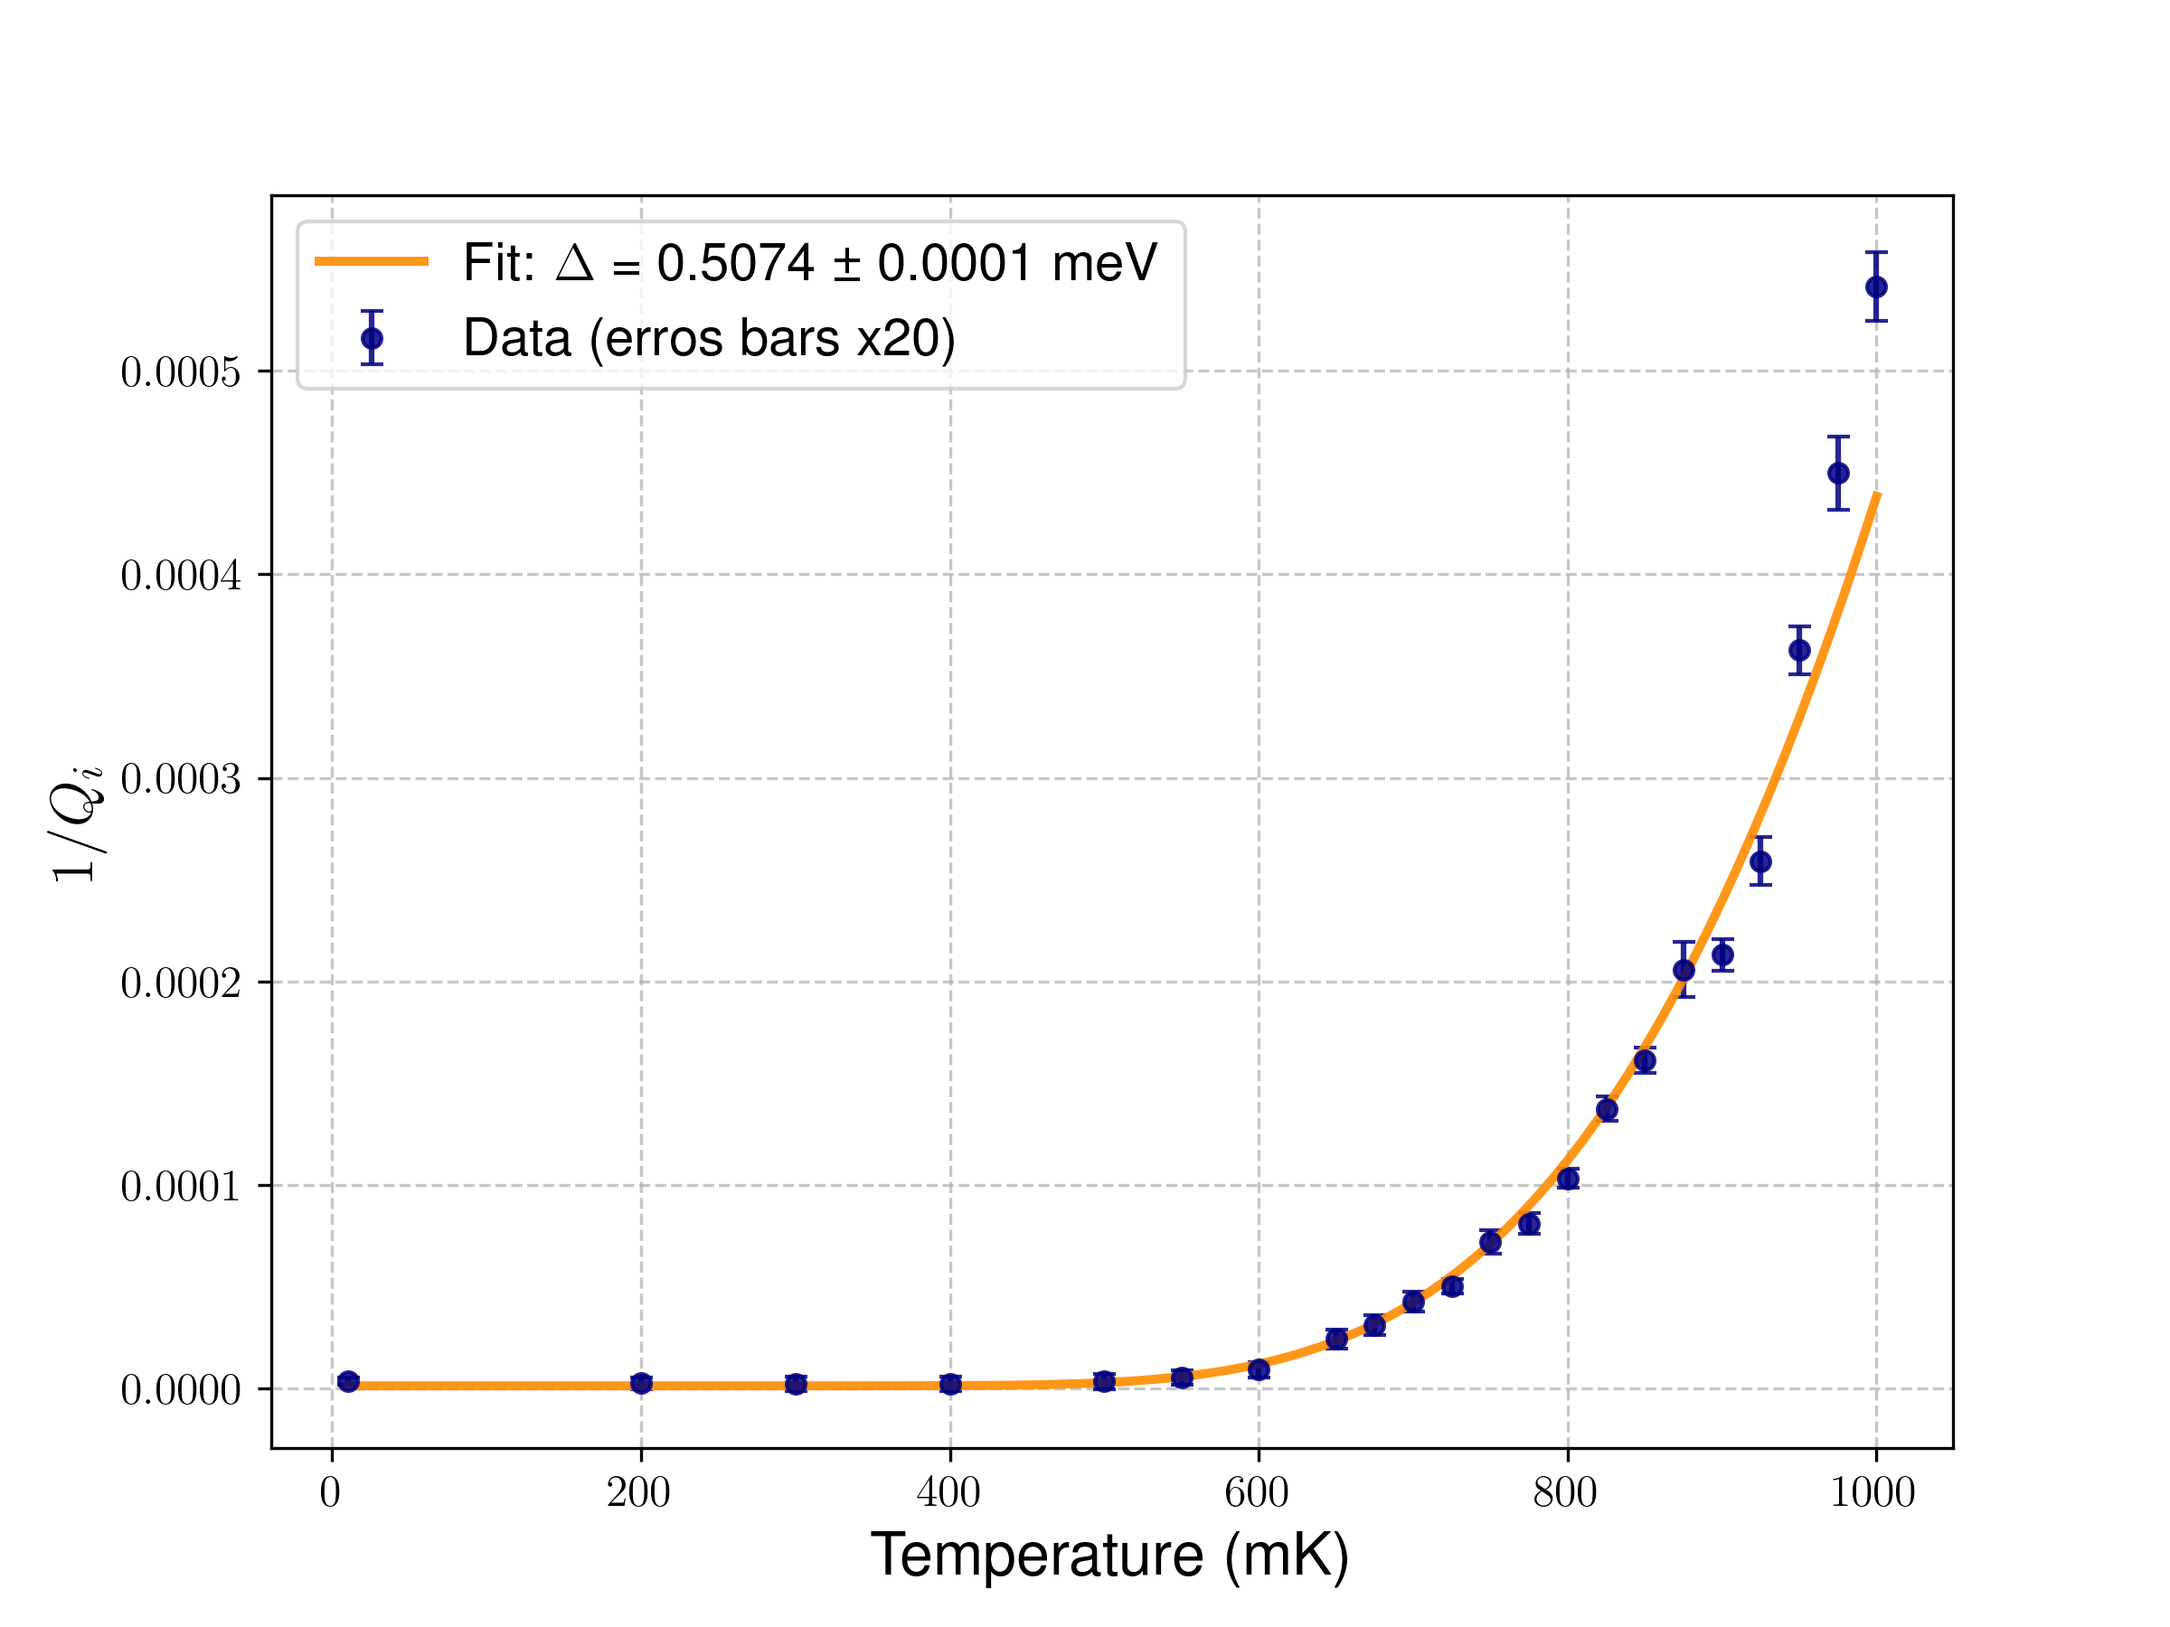
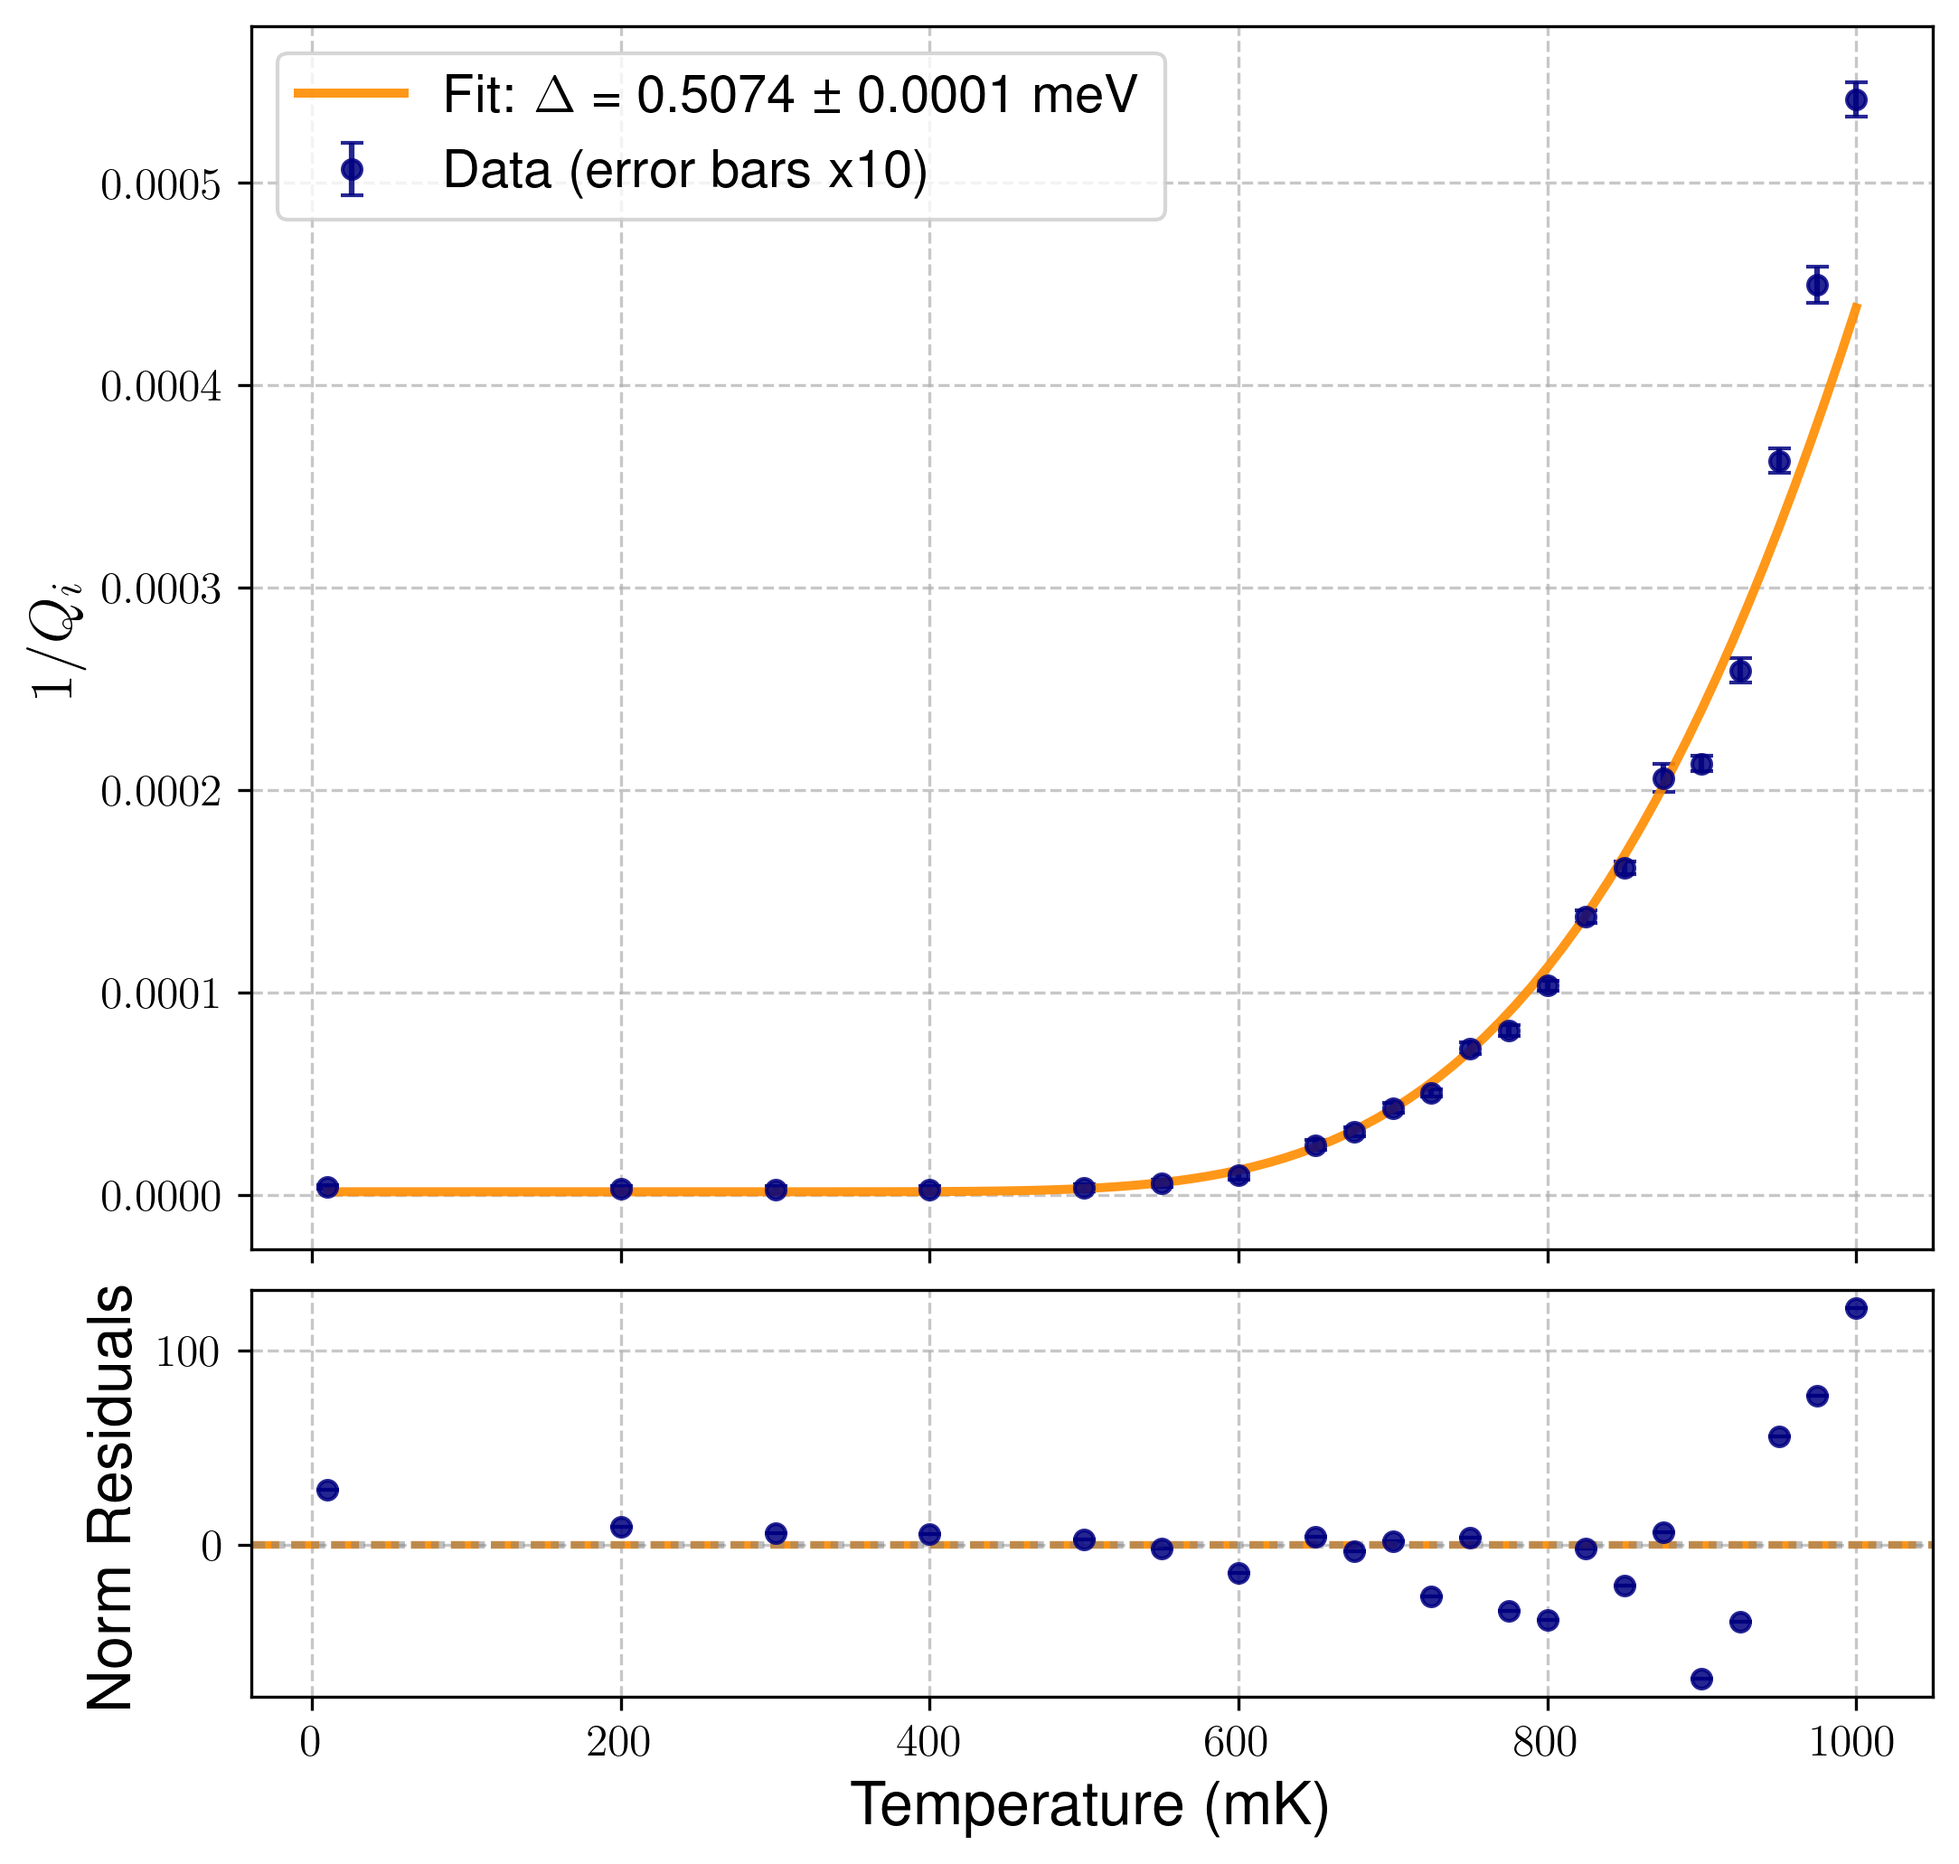
up

diff --git a/3DQubit/T_dep_results/SCgap_fit.py b/3DQubit/T_dep_results/SCgap_fit.py
@@ -2,9 +2,6 @@ import numpy as np
 import matplotlib.pyplot as plt
 from scipy.optimize import curve_fit
 from scipy.special import i0, k0
-from iminuit import Minuit
-from iminuit.cost import LeastSquares
-from iminuit.util import describe
 
 ########## IMPOSTAZIONI GRAFICHE (Aesthetic Improvements) #####
 plt.rcParams.update({
@@ -87,12 +84,18 @@ inv_Q0_fit = m.values["inv_Qi_0"]
 Delta_fit = m.values["Delta_eV"]
 Delta_err = m.errors["Delta_eV"]
 
-print(m)
+#print(m)
 
 T_c = Delta_fit/(1.764 * k_B)
 
 print(f"Critical temperature T_c = {T_c:.4f} K")
 print(f"Superconducting Gap = {Delta_fit*1e3:.4f}  meV")
+
+#Residuals calculation
+res = revQ - model(temp, inv_Q0_fit, Delta_fit)
+chi2 = np.sum((res / revQ_err) ** 2)
+dof = len(temp) - 2  # Numero di dati meno numero di parametri
+print(f"Chi-squared: {chi2:.2f}, Degrees of freedom: {dof}, Reduced Chi-squared: {chi2/dof:.2f}")
 
 # Prepara i dati per il plot del fit
 x_fit = np.linspace(np.min(temp), np.max(temp), 100)
@@ -102,25 +105,39 @@ lw_style = 2     # Spessore standard
 alpha_style = 0.7   # Leggera trasparenza per chiarezza visiva
 zorder_style = 1
 
-plt.figure(figsize=(8, 6))
-plt.errorbar(temp, revQ, yerr=revQ_err*20, fmt='o', label="Data (erros bars x20)", 
+# --- CREAZIONE DEI SUBPLOT ---
+# gridspec_kw imposta il rapporto di altezza tra il grafico principale (3) e i residui (1)
+fig, (ax1, ax2) = plt.subplots(2, 1, figsize=(8, 8), sharex=True, gridspec_kw={'height_ratios': [3, 1]})
+
+# --- GRAFICO PRINCIPALE (ax1) ---
+ax1.errorbar(temp, revQ, yerr=revQ_err*10, fmt='o', label="Data (error bars x10)", 
              color='navy', alpha=0.85, ms=5, capsize=3, elinewidth=1.5)
 
-# Inseriamo il valore del Delta nella label del Fit
-plt.plot(x_fit, f_fit, 
+ax1.plot(x_fit, f_fit, 
          label=f"Fit: $\Delta$ = {Delta_fit*1e3:.4f} ± {Delta_err*1e3:.4f} meV", 
          color='darkorange', alpha=0.9, lw=2.4)
 
-# In alternativa, puoi stamparlo come testo fisso nel grafico:
-# plt.text(0.05, 0.95, f"$\Delta$ = {Delta_fit*1e3:.3f} meV", 
-#          transform=plt.gca().transAxes, verticalalignment='top', 
-#          bbox=dict(boxstyle='round', facecolor='white', alpha=0.5))
+ax1.set_ylabel(r"$1/Q_i$")
+ax1.grid(True, linestyle='--', alpha=0.7)
+ax1.legend()
 
-plt.xlabel(r"Temperature (mK)")
-plt.ylabel(r"$1/Q_i$")
-#plt.title("Fit of Superconducting Gap")
-plt.grid(True, linestyle='--', alpha=0.7)
-plt.legend()
-plt.savefig("SCgap_fit.png", dpi=300)
-plt.savefig("SCgap_fit.pdf")
+# --- GRAFICO DEI RESIDUI (ax2) ---
+# Plottiamo i residui mantenendo gli stessi errori
+ax2.errorbar(temp, res/revQ_err, yerr=revQ_err*10, fmt='o', 
+             color='navy', alpha=0.85, ms=5, capsize=3, elinewidth=1.5)
+
+# Linea di riferimento a 0 per i residui
+ax2.axhline(0, color='darkorange', linestyle='--', lw=2, alpha=0.9)
+ax2.axhline(1, color='gray', linestyle='--', lw=1, alpha=0.5) 
+ax2.axhline(-1, color='gray', linestyle='--', lw=1, alpha=0.5)
+
+ax2.set_xlabel(r"Temperature (mK)")
+ax2.set_ylabel("Norm Residuals")
+ax2.grid(True, linestyle='--', alpha=0.7)
+
+# --- OTTIMIZZAZIONE DEGLI SPAZI ---
+plt.subplots_adjust(hspace=0.05) # Riduce lo spazio verticale tra i due grafici
+
+plt.savefig("SCgap_fit.png", dpi=300, bbox_inches='tight')
+plt.savefig("SCgap_fit.pdf", bbox_inches='tight')
 plt.show()

diff --git a/3DQubit/only_plot.py b/3DQubit/only_plot.py
@@ -18,7 +18,6 @@ time = data[:, 0]  # Frequenze
 A_data = data[:, 1]     # Parte reale di S21
 B_data = data[:, 2]     # Parte immaginaria di S21
 
-
 plt.plot(time*1e-6, A_data, label='Channel A', color='blue')
 plt.plot(time*1e-6, B_data, label='Channel B', color='darkorange')
 plt.xlabel('Time (ms)', fontsize=12)
